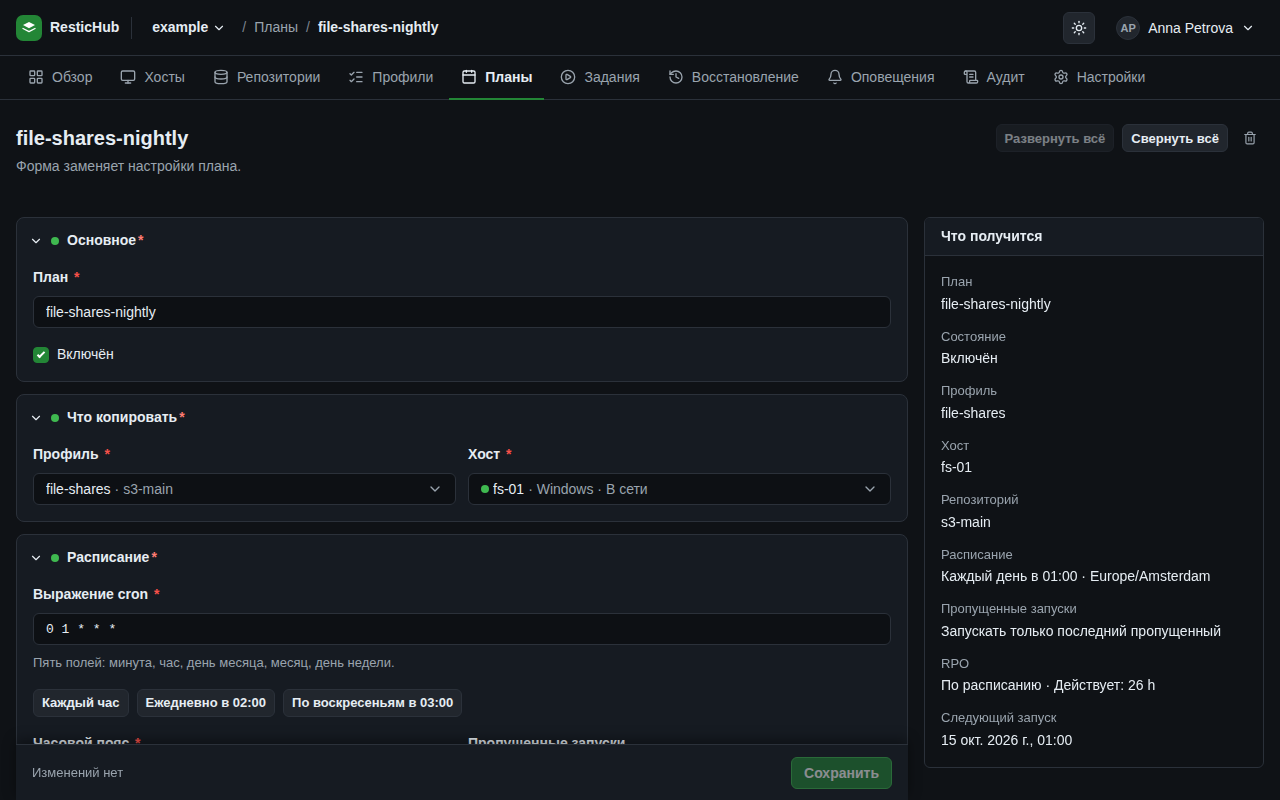
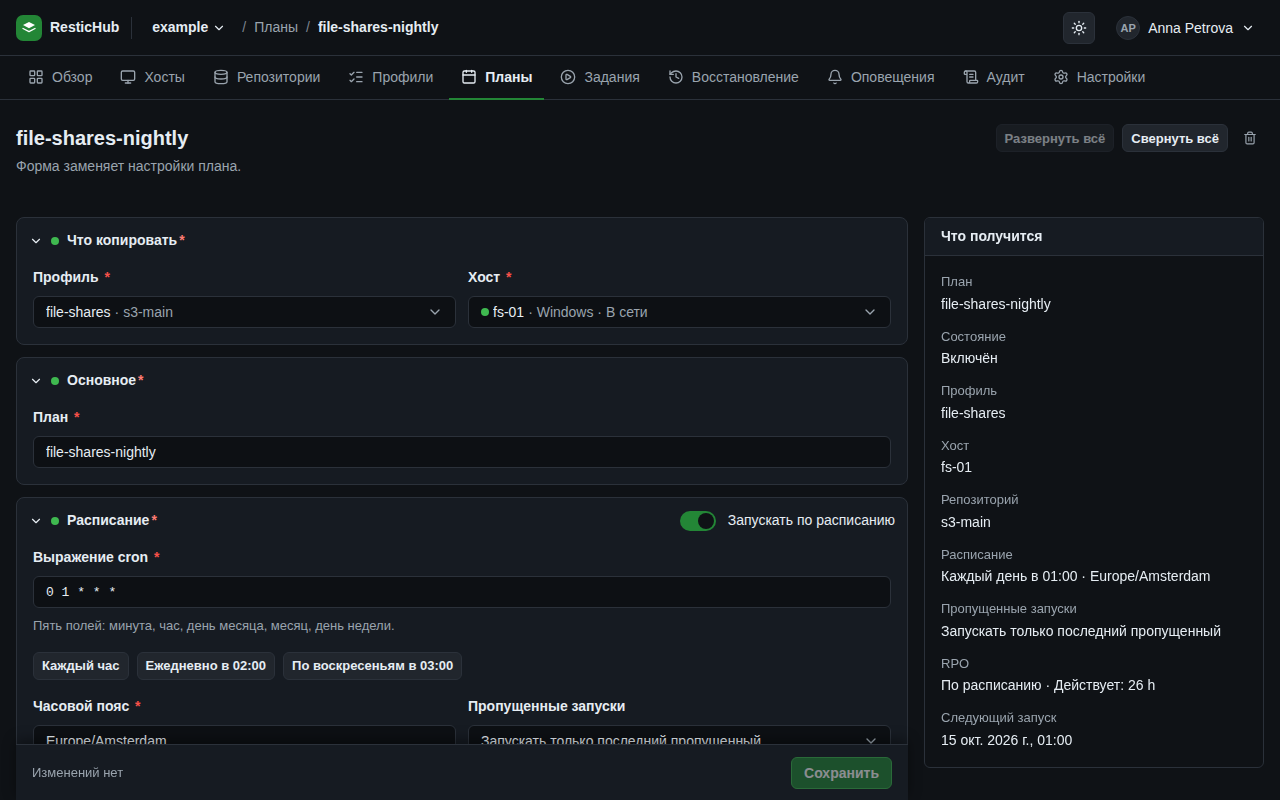
fix(ui): show the schedule switch label and refresh the plan frames

diff --git a/ui/e2e/switch-capture.spec.ts b/ui/e2e/switch-capture.spec.ts
@@ -1,0 +1,54 @@
+import { expect, test, type Page } from '@playwright/test';
+import { mkdirSync } from 'node:fs';
+
+// Captures the on/off switch for a review (Russian UI). It runs only with CAPTURE and CAPTURE_DIR
+// set, so CI skips it.
+const dir = process.env.CAPTURE_DIR;
+test.skip(!process.env.CAPTURE || !dir, 'set CAPTURE and CAPTURE_DIR to write the screenshots');
+test.describe.configure({ mode: 'serial' });
+
+const out = dir as string;
+
+async function shot(page: Page, name: string): Promise<void> {
+	await page.waitForTimeout(300);
+	await page.screenshot({ path: `${out}/${name}.png` });
+}
+
+test('the switch frames', async ({ page }) => {
+	mkdirSync(out, { recursive: true });
+	await page.setViewportSize({ width: 1440, height: 900 });
+	await page.addInitScript(() => {
+		for (const key of ['agents', 'profiles', 'plans', 'repositories', 'alerts']) {
+			localStorage.setItem(`restichub.mock.${key}`, 'sample');
+		}
+		localStorage.setItem('restichub.locale', 'ru');
+	});
+	await page.goto('/sign-in');
+	await page.locator('#signin-username').fill('admin');
+	await page.locator('#signin-password').fill('secret');
+	await page.locator('form button[type="submit"]').click();
+	await expect(page.getByRole('navigation', { name: 'Основная навигация' })).toBeVisible();
+
+	const nav = page.getByRole('navigation', { name: 'Основная навигация' });
+	await nav.getByRole('link', { name: 'Планы', exact: true }).click();
+	await expect(page.getByRole('heading', { level: 1, name: 'Планы' })).toBeVisible();
+	await page
+		.getByRole('list', { name: 'Планы' })
+		.getByRole('link', { name: 'nightly-web' })
+		.click();
+	await page.locator('.runs li').first().waitFor();
+	await shot(page, 'plan-editor-on');
+	await page.getByRole('switch', { name: 'Запускать по расписанию' }).click();
+	await shot(page, 'plan-editor-off');
+	await page.getByRole('button', { name: 'Сохранить' }).click();
+	await expect(page.getByText('План изменён.')).toBeVisible();
+	await expect(page.getByRole('heading', { level: 1, name: 'Планы' })).toBeVisible();
+	await page.locator('li.item .status', { hasText: 'Отключён' }).first().waitFor();
+	await shot(page, 'plans-list-disabled');
+
+	await nav.getByRole('link', { name: 'Настройки', exact: true }).click();
+	await page.getByRole('link', { name: 'Каналы', exact: true }).click();
+	await page.locator('li.item').first().getByRole('button').first().click();
+	await page.getByRole('dialog').waitFor();
+	await shot(page, 'channel-dialog');
+});

diff --git a/ui/src/lib/components/ProfileSection.svelte b/ui/src/lib/components/ProfileSection.svelte
@@ -53,7 +53,7 @@
 </script>
 
 <section class="section" class:section--open={open} data-section={id}>
-	<header class="section__head">
+	<header class="section__head" class:section__head--labelled={Boolean(switchLabel)}>
 		<button
 			type="button"
 			class="section__toggle"
@@ -75,8 +75,8 @@
 		{/if}
 	</header>
 	{#if open}
+		{#if note}<p class="section__note">{note}</p>{/if}
 		<div class="section__body" class:section__body--off={switchable && !enabled} id={bodyId}>
-			{#if note}<p class="section__note">{note}</p>{/if}
 			{@render children()}
 		</div>
 	{/if}
@@ -137,7 +137,7 @@
 		white-space: nowrap;
 	}
 
-	.section__head :global(.rh-switch__label) {
+	.section__head:not(.section__head--labelled) :global(.rh-switch__label) {
 		display: none;
 	}
 
@@ -150,6 +150,7 @@
 
 	.section__note {
 		margin: 0;
+		padding: 0 var(--rh-space-4) var(--rh-space-2);
 		color: var(--rh-color-text-muted);
 		font-size: var(--rh-font-size-sm);
 	}

diff --git a/design/style/ui-principles.md b/design/style/ui-principles.md
@@ -60,5 +60,5 @@ Use the shared components of [ui/COMPONENTS.md](../../ui/COMPONENTS.md). They ap
 4. A primary action stays enabled when a field is not correct. When the person tries to send the form, each field that is not correct shows its error. The first of these fields gets the focus.
 5. If a primary action is disabled, a text next to the action or the tooltip of the action gives the reason.
 6. The on/off state of a record is a `Switch`. Examples are a plan, a channel, an alert rule and a maintenance task. The label of the switch says what it does, for example "Run on schedule" or "Send alerts". Do not use a `Checkbox` with the label "Enabled". A `Checkbox` is for an option of a record or of an action, for example "Use VSS" or "Dry run".
-7. Put the switch in the header of the section that it controls. In a dialog without sections, make it the last field: a row with the label at the left and the switch at the right, and a help line below the label (`SwitchField`). A test fails when a `Checkbox` is bound to a field named `enabled`.
+7. Put the switch in the header of the section that it controls. In a dialog without sections, make it the last field (`SwitchField`). The field is a row: the label at the left, the switch at the right and a help line below the label. A test fails when a `Checkbox` is bound to a field named `enabled`.
 8. A record that is off shows the pill "Disabled" next to its name in the page header and in its list row.
